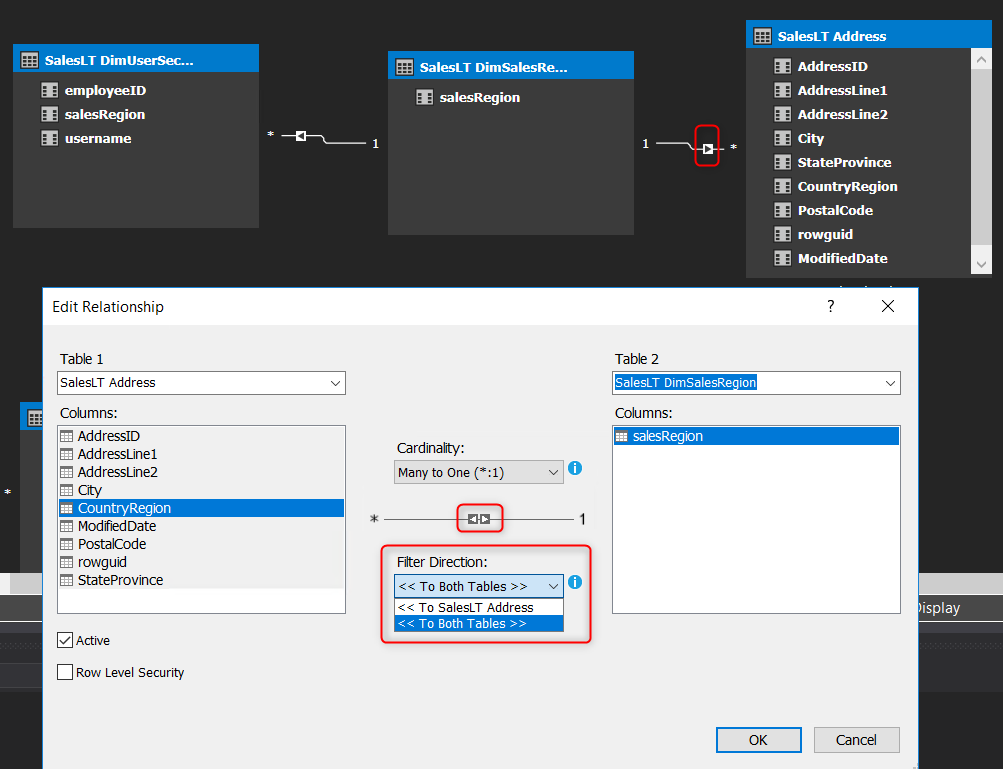
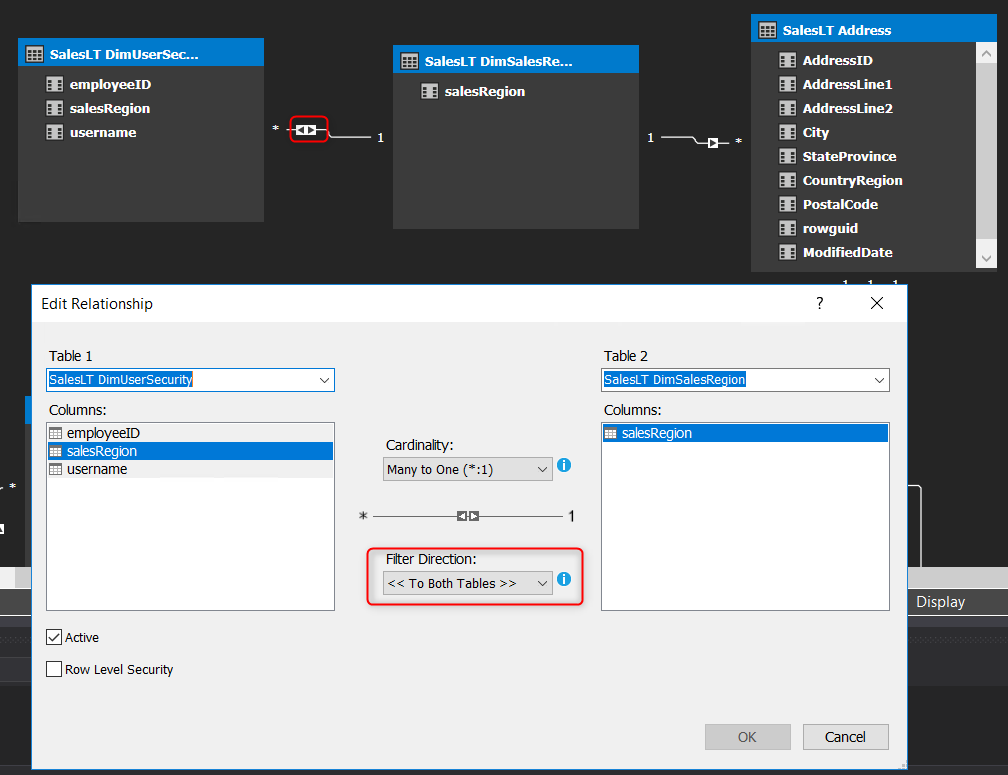
bi directional filtering

diff --git a/PowerBIISV/Docs/AzureAnalysisServiceRLS.md b/PowerBIISV/Docs/AzureAnalysisServiceRLS.md
@@ -23,8 +23,15 @@ The DAX expression ```=FALSE() ``` always returns false, meaning this table will
 
 ![Alt text](/PowerBIISV/Docs/Images/biDiFilter.png?raw=true "Bi-directional cross filtering")
 
+The role will then simply be defined on the ```DimUserSecurity``` table as following:
+```
+='SalesLT DimUserSecurity'[username]=CUSTOMDATA()
+```
 Bi-directional cross-filtering has implications on data modeling as well as performance.  Read the whitepaper linked in [this topic](https://powerbi.microsoft.com/en-us/blog/bidirectional-cross-filtering-whitepaper-2/) to ensure you fully understand it before using it. 
   
+  * Observed difference between Option 1 and 2 
+> It appears that when you use DAX to filter the rows, the filtering applies even if the Power BI visuals don't use any of the columns in the filtered table. However, when you use bi-directional filtering, it only works when Power BI visuals reference the filtered table. This dependency makes it harder to design visuals without the knowledge of RLS, and makes it hard to hide the security tables you don't want to expose to the users. 
+
 3. In order to embed Power BI in an application, you must have a Power BI Pro user that the app uses to communicate with Power BI. Add the Power BI Pro user's [UPN (User Principal Name)](https://docs.microsoft.com/en-us/power-bi/service-admin-rls) as a member of the role:
 
 ![Alt text](/PowerBIISV/Docs/Images/addUser2Role.png?raw=true "Add Power BI Pro user to the role")
